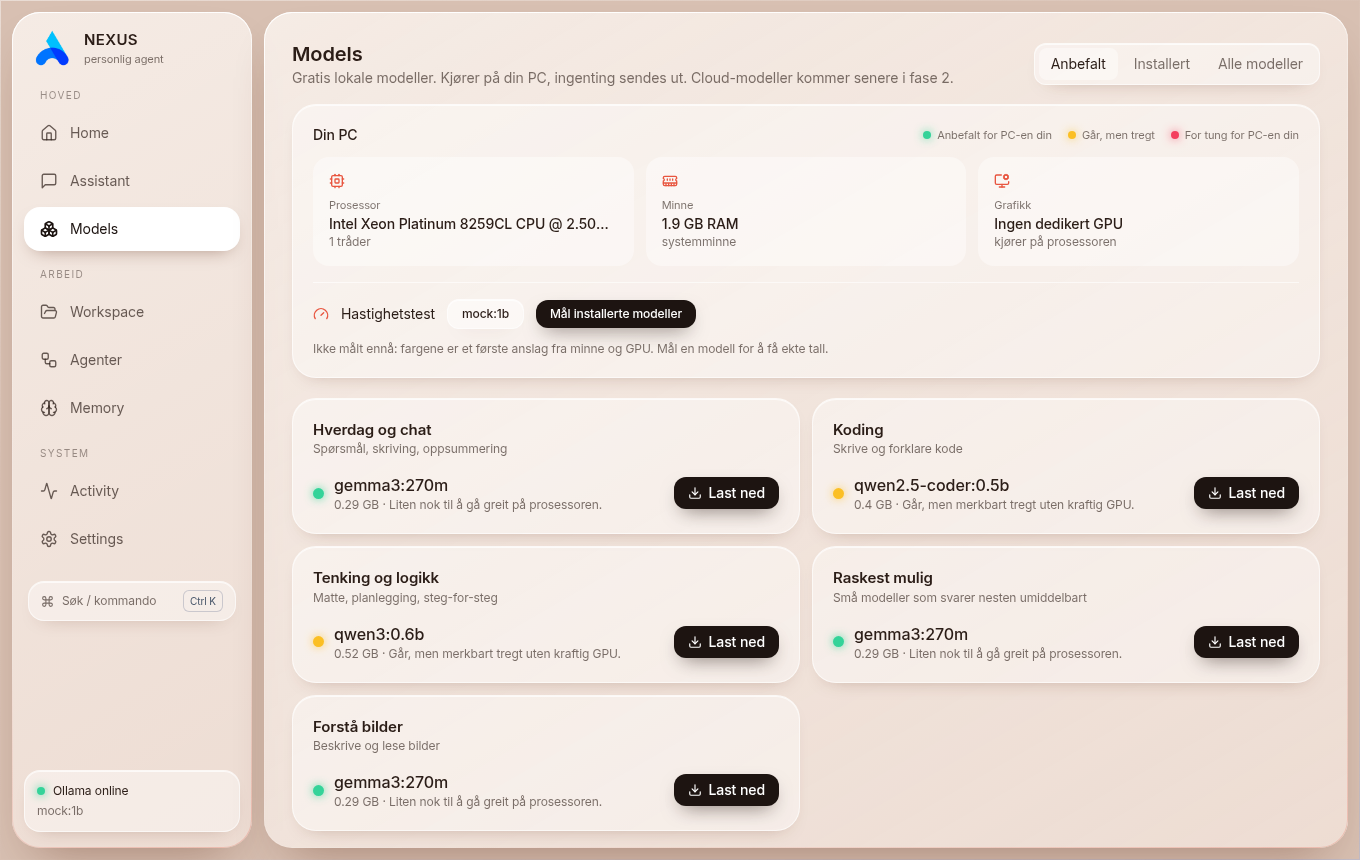
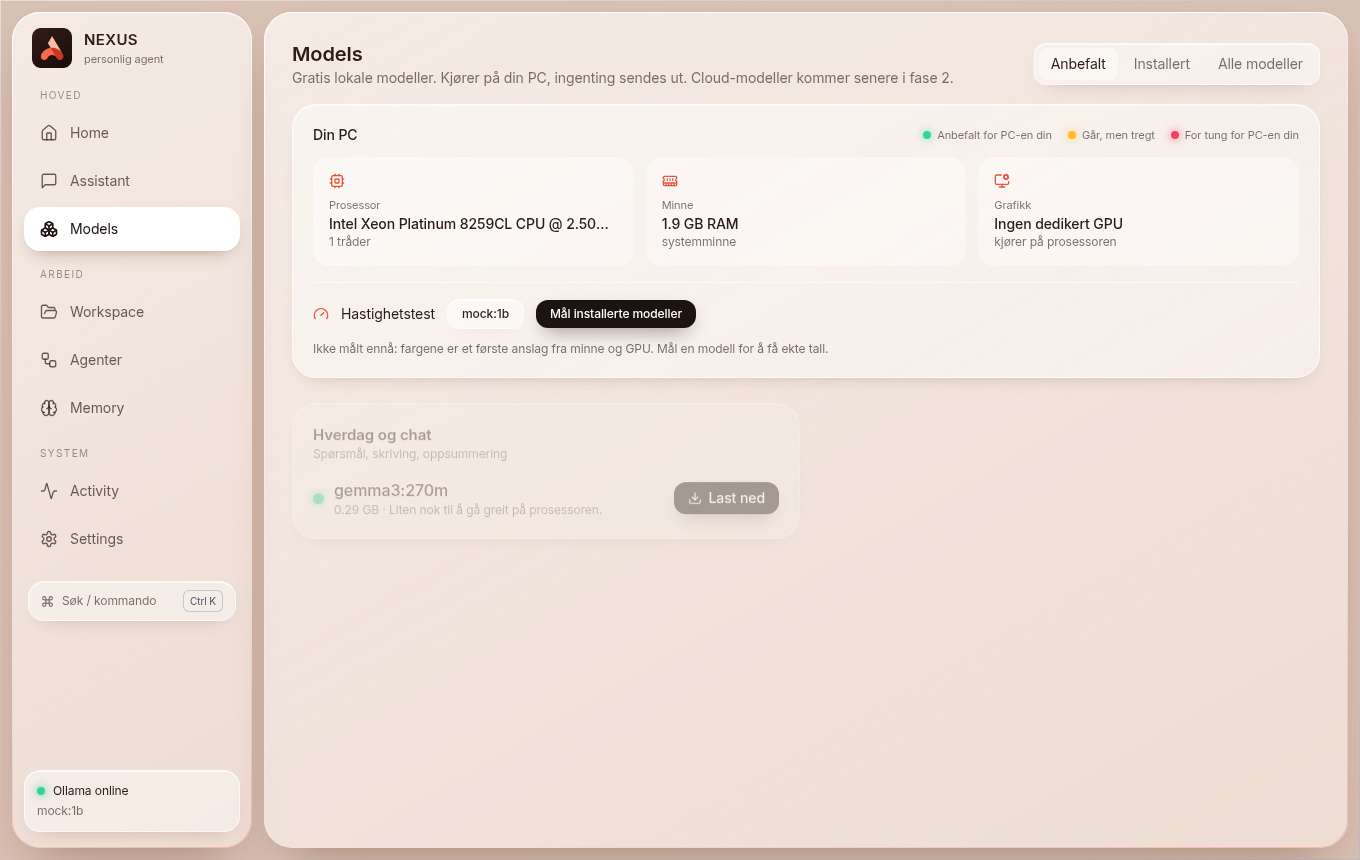
coral defaults

diff --git a/frontend/src/store.tsx b/frontend/src/store.tsx
@@ -1,7 +1,7 @@
 import { createContext, useCallback, useContext, useEffect, useRef, useState, ReactNode } from "react";
 import { api, Prefs, Health, ModelsResp, Pull, streamPull } from "./api";
 
-const DEF: Prefs = { agent_name: "NEXUS", user_name: "Benjamin", persona: "", theme: "dark", accent: "#5aa9ff", aurora: "on", perf: "light", reply_lang: "auto", intro: "on" };
+const DEF: Prefs = { agent_name: "NEXUS", user_name: "Benjamin", persona: "", theme: "glass", accent: "#e8553f", aurora: "on", perf: "light", reply_lang: "auto", intro: "on" };
 function applyPrefs(p: Prefs) {
   const h = document.documentElement; const v = parseInt(p.accent.slice(1), 16);
   const rgb = [(v >> 16) & 255, (v >> 8) & 255, v & 255];
